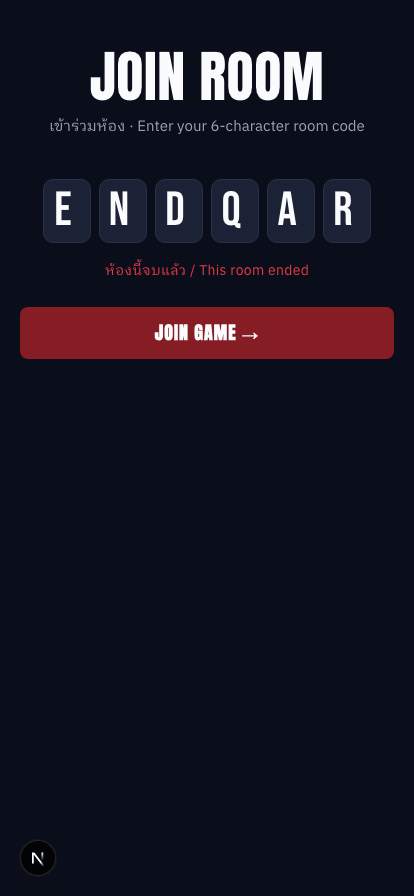
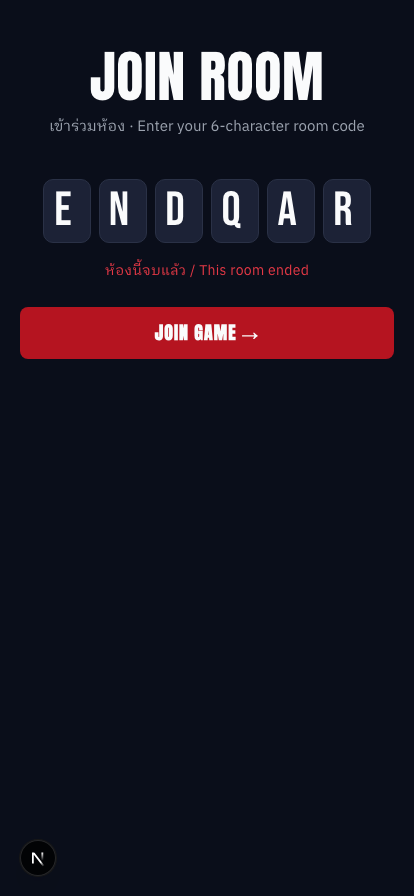
chore(ralph): commit US-074..US-078 tracking + DESIGN.md updates
Carries forward orphaned tracking output from prior iterations:
- US-074 (Phase 5c GATE) marked passes:true with localhost-only QA evidence
- US-075..US-077 (RoleBadge / ResponseButton / response-feed + pack-chip) marked passes:true
- US-078 docs codification (DESIGN.md additions for the 5d primitives)
- .ralph/qa-phase-5c.txt evidence file for the 5c GATE
- Screenshot file rewrites for US-036

Implementation commits already landed (a6384e9, 24fface, 2326272); this just
syncs the .ralph/* + docs/ tracking that wasn't committed alongside them.

Changed region(s): [[0.029, 0.3438, 0.9565, 0.4062]]

diff --git a/docs/DESIGN.md b/docs/DESIGN.md
@@ -250,6 +250,88 @@ components:
     textColor: "{colors.on-dark}"
     typography: "{typography.body-sm}"
     padding: "{spacing.sm} {spacing.md}"
+
+  # Insider role-reveal pill (Master / Insider / Common)
+  role-badge:
+    backgroundColor: "{colors.surface}/50"
+    textColor: "{colors.on-dark}"
+    typography: "{typography.display-md}"  # 32px Anton, uppercase, leading-none
+    captionTypography: "{typography.body-md}"  # 18px IBM Plex Thai
+    rounded: "{rounded.lg}"
+    padding: "{spacing.md} {spacing.md}"
+    border: "2px solid {variants}"
+    variants:
+      warning:  # Insider — high-stakes / hidden-role
+        border: "{colors.warning}"      # #fbbf24
+        captionColor: "{colors.warning}"
+      info:     # Master — judge
+        border: "{colors.info}"         # #1d4ed8
+        captionColor: "{colors.info}"
+      neutral:  # Common — plain player
+        border: "{colors.hairline}"     # #2a3146
+        captionColor: "{colors.on-dark-soft}"
+
+  # Master Yes / No / Unsure response button (asking phase)
+  response-button:
+    minHeight: 96px
+    width: flex-1
+    rounded: "{rounded.xl}"  # rounded-2xl
+    padding: "{spacing.md} {spacing.lg}"
+    layout: "stacked: icon (40px font-hero) → labelTh (28px display-md) → labelEn (12px body)"
+    textColor: "{colors.on-dark}"
+    transition: "active:scale-[0.99]"
+    variants:
+      success: # Yes / Affirmative
+        backgroundColor: "{colors.success}"  # #16a34a
+      error:   # No / Negative
+        backgroundColor: "{colors.error}"    # #e63946
+      warning: # Unsure / Hedge
+        backgroundColor: "{colors.warning}"  # #fbbf24
+
+  # Asking-phase response feed row (Insider/Common live ticker)
+  response-feed-entry:
+    minHeight: 44px
+    backgroundColor: "{colors.surface}"
+    rounded: "{rounded.md}"  # rounded-lg
+    padding: "{spacing.sm} {spacing.md}"
+    layout: "horizontal: [tabular-nums timestamp] · [icon + labelEn + /labelTh]"
+    timestampTypography: "{typography.body-xs} tabular-nums {colors.on-dark-soft}"
+    answerTypography: "{typography.display-sm}"  # 18px Anton, uppercase
+    interactive: false  # non-interactive list row, rendered inside <ul>
+
+  # Voting phase tap target (Screen 7)
+  vote-target-card:
+    minHeight: 120px
+    width: 100%
+    backgroundColor: "{colors.tag-*}"  # palette by joinOrder, same as player-chip
+    textColor: "{colors.on-dark}"
+    typography: "{typography.display-md}"  # 24px Anton, uppercase
+    rounded: "{rounded.xl}"  # rounded-2xl
+    padding: "{spacing.md} {spacing.md}"
+    transition: "active:scale-[0.99]"
+    selectedRing: "4px solid {colors.goal} offset-2 offset-{colors.ink}"
+    selectedOverlay: "✓ icon, top-right, 28px circle, bg {colors.goal}"
+    privacy: "no per-player tally shown (D6 — anti-cheat: hidden tallies)"
+
+  # Host-setup pack picker chip (Screen 1)
+  pack-chip:
+    minHeight: 64px  # min-h-16
+    rounded: "{rounded.lg}"  # rounded-xl
+    padding: "{spacing.sm} {spacing.md}"
+    semantics: "radio (role=radio + aria-checked)"
+    label: "{typography.body-md} uppercase, IBM Plex Thai display"
+    subLabel: "{typography.body-xs} (optional English)"
+    states:
+      selected:
+        backgroundColor: "{colors.tag-*}"  # joinIndex → palette
+        textColor: "{colors.on-dark|on-light}"  # palette-aware
+        border: "1px solid transparent"
+        shadow: shadow-md
+      unselected:
+        backgroundColor: "{colors.surface-elevated}"
+        textColor: "{colors.on-dark}"
+        border: "1px solid {colors.hairline}"
+        active: "active:bg-{colors.surface}"
 ---
 
 ## Product Context
@@ -474,6 +556,37 @@ This variant fires when a player guessed the right name but a faster opponent al
 ### Error / fallback (`is_correct` missing/null)
 The `selectGuessResultMode()` helper falls back to **Foul** if `is_correct` is null or undefined. This is a defensive choice: if the DB ever fails to write the boolean, showing Foul is closer to the conservative outcome than falsely celebrating a guess.
 
+## Components — Insider additions (Phase 5d)
+
+These five components were extracted into `@social-hub/ui` during Phase 5d to lock the visual contract for the Insider game and any future role-asymmetric / multi-tap / list-row screens. All five preserve the prior inline DOM byte-for-byte (same `data-testid`, same classes, same structure) so existing e2e selectors keep working.
+
+### `role-badge`
+Outlined pill used by Insider/Master/Common role-reveal screens (Screen 4). Anton 32px uppercase label, optional 18px Plex Thai caption above. Three variants:
+
+- **`warning`** — yellow `#fbbf24` border + caption color. The Insider's high-stakes / hidden-role reveal.
+- **`info`** — blue `#1d4ed8` border + caption color. The Master's judge reveal.
+- **`neutral`** — hairline `#2a3146` border + soft caption (`text-on-dark-soft`). The Common player's plain reveal.
+
+Reusable beyond Insider: any future role-asymmetric reveal (Mafia/Spy/Civilian, Werewolf/Villager) should reach for this primitive rather than re-inlining the div+span+span pile.
+
+### `response-button`
+Master's Yes / No / Unsure tap-target on Screen 6a (asking phase). 96px min-height, full-width via `flex-1`, three stacked spans (40px icon → 28px Thai display → 12px English caption). Three variants:
+
+- **`success`** — `bg-success` (`#16a34a`). Yes / Affirmative.
+- **`error`** — `bg-error` (`#e63946`). No / Negative.
+- **`warning`** — `bg-warning` (`#fbbf24`). Unsure / Hedge.
+
+Reusable for any future polarized-tap-to-answer screen.
+
+### `response-feed-entry`
+Non-interactive 44px list row used by the Insider asking-phase response feed (Screen 6b). Renders inside a `<ul>` rendered by the consumer. Layout is timestamp on the left (tabular-nums, 12px Plex Thai, soft color), then icon + 18px Anton uppercase EN label + optional `/ TH` subtext on the right. The consumer passes both `testId` (the row) and `timeTestId` (the timestamp) so existing `asking-other-feed-row` / `asking-other-feed-time` selectors keep working.
+
+### `vote-target-card`
+Voting-phase tap target on Screen 7. 120px tall, full-width, tag-color background driven by `joinOrder` (mirrors `player-chip`'s 8-color palette so a player carries the same tag-color across lobby and voting). Selected state: 4px goal-red ring with 2px ink offset + a 28px circular ✓ overlay anchored top-right. Per design decision **D6 (hidden tallies)** the card never shows per-player vote counts — only the group's progress lives outside this component. Anti-cheat: zero indication of who else has voted for whom.
+
+### `pack-chip`
+Selectable radio chip used by the Insider host-setup form (Screen 1). 64px min-height. Selected state: tag-color fill keyed by `joinIndex` (palette-aware text color: `text-on-dark` for most colors, `text-ink` for yellow/cyan). Unselected state: `surface-elevated` with hairline outline and an `active:bg-surface` press state. Carries proper accessibility semantics (`role="radio"` + `aria-checked`) — keyboard and screen readers see it as a real radio control. Headline is IBM Plex Thai display (16px uppercase); optional English subtitle is dimmed below.
+
 ## Decisions Log
 
 | Date | Decision | Rationale |
@@ -485,6 +598,8 @@ The `selectGuessResultMode()` helper falls back to **Foul** if `is_correct` is n
 | 2026-04-30 | 8-color player tag palette | Each player ≤8 in MVP scope; deterministic by join_order |
 | 2026-04-30 | IBM Plex Thai Looped + Sarabun fallback | Best Thai script legibility on small screens |
 | 2026-04-30 | Correct-zero variant stays in Correct family | Issue #8: a non-top-N correct guess must not visually collapse to Foul. Same green accent + `+0 pts` pill, only the headline changes. |
+| 2026-05-08 | Phase 5d component extraction (US-075…US-077) | Five Insider screens' inline JSX (role-reveal pill, master Yes/No/Unsure button block, asking-phase feed row, voting tap card, host-setup pack chip) extracted into `@social-hub/ui` as `role-badge`, `response-button`, `response-feed-entry`, `vote-target-card`, `pack-chip`. Snapshot tests per variant lock byte-for-byte DOM equivalence so existing e2e selectors keep working. Variants reuse Stadium Energy semantic tokens (warning/info/success/error/neutral + 8-color tag palette) — no new colors introduced. Reusable beyond Insider: future role-asymmetric reveal screens (Mafia/Spy/Civilian) and 3-option tap surfaces should reach for these primitives instead of re-inlining the patterns. |
+| 2026-05-08 | Phase 5d component specs added to DESIGN.md (US-078) | Five components codified in both the YAML `components:` frontmatter (token-bound props, variant tables) and a prose `## Components — Insider additions` section (usage notes, variant semantics, reusability guidance). Decisions Log + Known Gaps refreshed accordingly. |
 
 ## Don'ts
 
@@ -509,3 +624,6 @@ The `selectGuessResultMode()` helper falls back to **Foul** if `is_correct` is n
 - Print/PDF export not in scope
 - Light celebration alt mode tokens defined but UX not yet wireframed
 - Sound on/off toggle not yet specified in component vocabulary
+- Insider reveal screen (Screen 8) animations — flip / confetti / score-roll — gated behind `prefers-reduced-motion: reduce` per US-073 contract; Phase 5d.5 will add the actual animations
+- Insider asking-phase loading/empty/error/transition state coverage (Phase 5d.5)
+- Insider a11y polish (Phase 5d.6) — focus rings over tag-color backgrounds, aria-live response feed, ARIA landmarks audit
